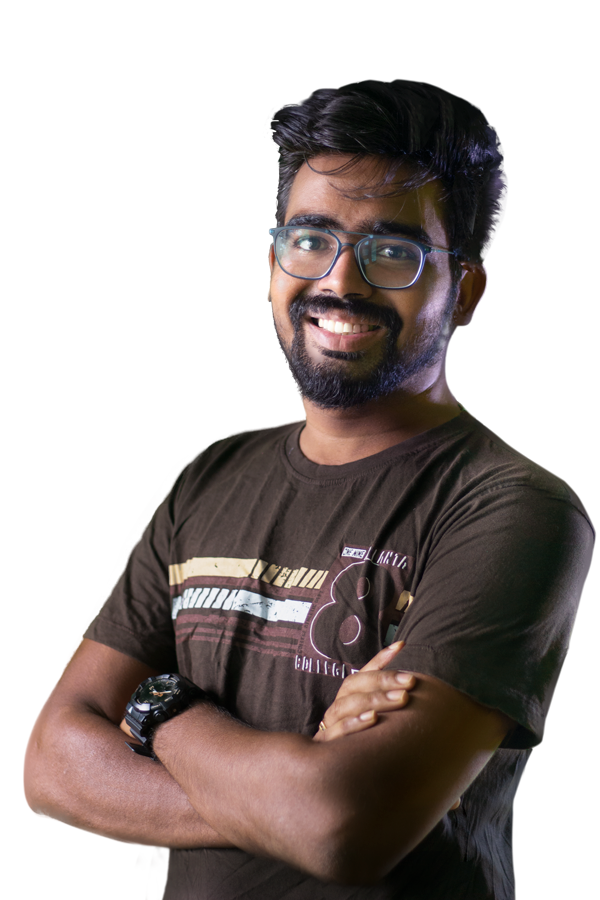
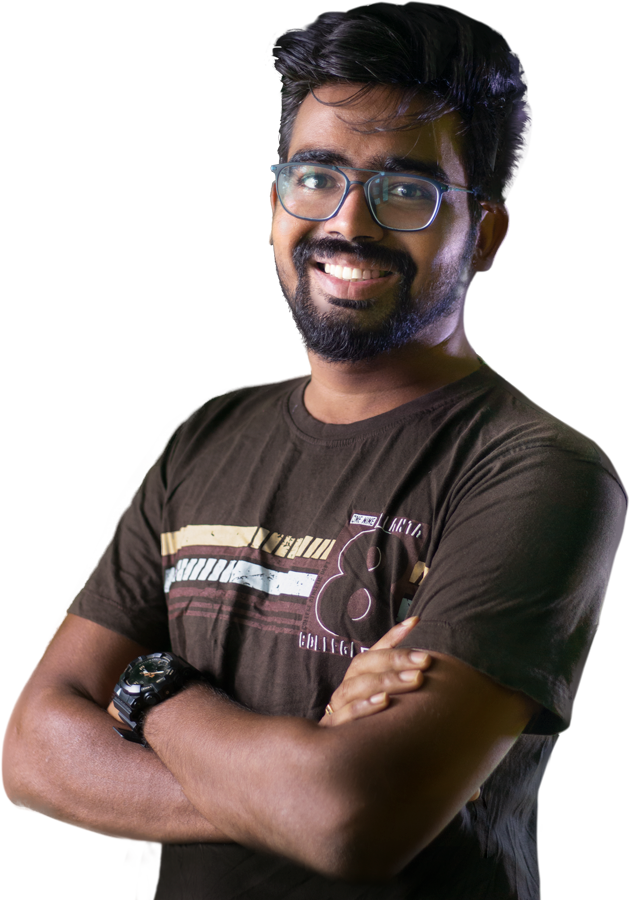
image correction

diff --git a/css/style.scss b/css/style.scss
@@ -561,6 +561,7 @@ body.scroll-stopped{
             }
             @media screen and (max-width:1024px){
                 width: 50%;
+                
             }
 
             .hero-image-holder{
@@ -575,7 +576,11 @@ body.scroll-stopped{
                 position: absolute;
                 right: 0;
                 bottom: 0;
-                height: 100%;
+                height: 90%;
+
+                @media screen and (max-width:480px){
+                    height: 105%;
+                }
             }
             .hero-image-overlay{
                 position: absolute;

diff --git a/css/style.css b/css/style.css
@@ -774,7 +774,13 @@ body.scroll-stopped {
   position: absolute;
   right: 0;
   bottom: 0;
-  height: 100%;
+  height: 90%;
+}
+
+@media screen and (max-width: 480px) {
+  .hero .hero-container .hero-artwork img {
+    height: 105%;
+  }
 }
 
 .hero .hero-container .hero-artwork .hero-image-overlay {
